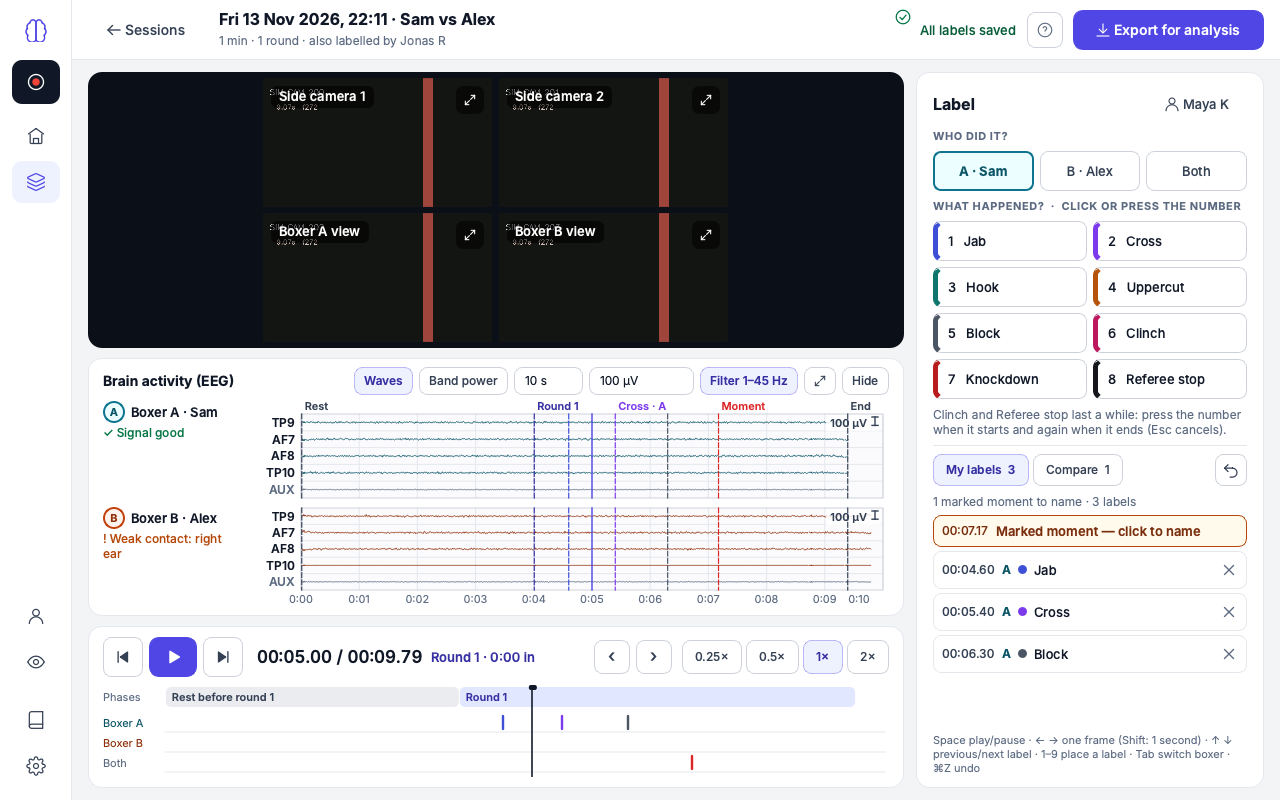
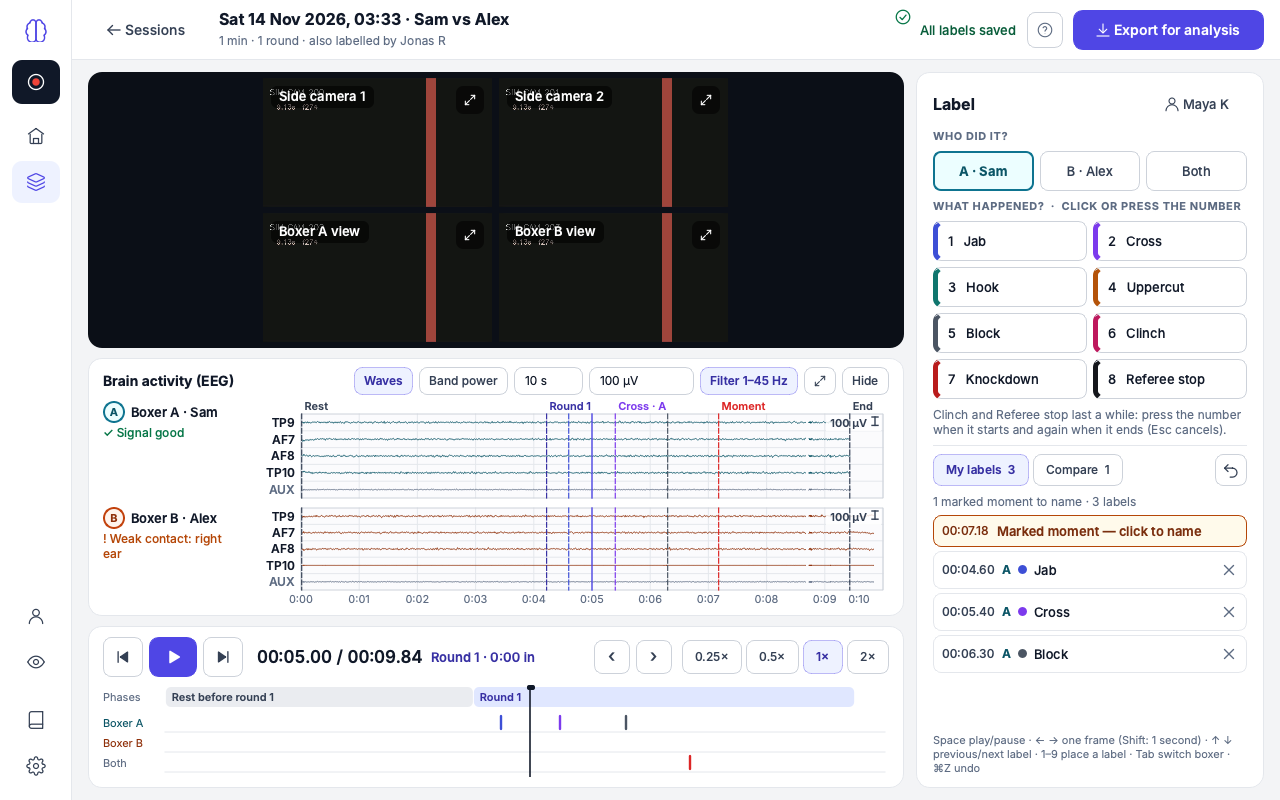
Get ready: compact plan card and one-line header; Review: videos keep more height
At the minimum window the plan card squeezed the headband cards; the disk line
and the save location now share one row and the title shares a row with the
device count. In Review & Label the EEG card yields more height to the videos.
Screenshots refreshed.

Claude-Session: https://claude.ai/code/session_01ERFq9xMTLe1Ze4KAvz9QwG

diff --git a/brain_battle/ui/record_flow.py b/brain_battle/ui/record_flow.py
@@ -355,7 +355,7 @@ class HeadbandView(QFrame):
         # (the scale bar always says what it currently is).
         self._trace = EEGViewer(channels=EEG_CHANNELS[:4] if compact else EEG_CHANNELS,
                                 live=True, color=dt.boxer_colors(slot.which)[2],
-                                min_row_px=11 if compact else 12)
+                                min_row_px=11 if compact else 8)
         self._trace.set_timebase(5 if compact else 10)
         self._trace.set_scale(None)
         v.addWidget(self._trace, 1)
@@ -584,17 +584,14 @@ class ConnectStep(QWidget):
         self.flow = flow
         root = QVBoxLayout(self); root.setContentsMargins(0, 0, 0, 0); root.setSpacing(10)
 
-        top = QHBoxLayout(); top.setSpacing(12)
-        tv = QVBoxLayout(); tv.setSpacing(2)
-        tv.addWidget(ui.title("Get ready"))
-        # (two labels kept for clarity: the count, then what it means)
-        line = QHBoxLayout(); line.setSpacing(8)
+        # one row: the title, then the count and what it means, then Search again
+        top = QHBoxLayout(); top.setSpacing(14)
+        top.addWidget(ui.title("Get ready"))
         self._summary = QLabel("")
         self._explain = ui.muted("", size=dt.SIZE_MD, wrap=False)
         self._explain.setSizePolicy(QSizePolicy.Policy.Ignored, QSizePolicy.Policy.Preferred)
-        line.addWidget(self._summary); line.addWidget(self._explain, 1)
-        tv.addLayout(line)
-        top.addLayout(tv, 1)
+        top.addWidget(self._summary, 0, Qt.AlignmentFlag.AlignBottom)
+        top.addWidget(self._explain, 1, Qt.AlignmentFlag.AlignBottom)
         again = ui.secondary_button("Search again", icon="search",
                                     tip="Look for the cameras and headbands again")
         again.clicked.connect(flow.search_again)
@@ -659,9 +656,9 @@ class SetupStep(ui.Card):
         super().__init__(parent=parent)
         self.flow = flow
         self._net_cache = {}
-        root = QVBoxLayout(self); root.setContentsMargins(18, 14, 18, 14); root.setSpacing(12)
+        root = QVBoxLayout(self); root.setContentsMargins(18, 12, 18, 12); root.setSpacing(10)
 
-        # Row 1: who is boxing, the bell, where it will be saved
+        # Row 1: who is boxing, the bell
         r1 = QHBoxLayout(); r1.setSpacing(10)
         self._name_a = self._name_field("A"); self._name_b = self._name_field("B")
         r1.addWidget(ui.boxer_badge("A", 26)); r1.addWidget(self._name_a, 2)
@@ -673,9 +670,7 @@ class SetupStep(ui.Card):
         r1.addWidget(self._bell)
         r1.addStretch(1)
         root.addLayout(r1)
-        self._hb_note = ui.muted("", size=dt.SIZE_XS, wrap=False)
-        self._hb_note.setSizePolicy(QSizePolicy.Policy.Ignored, QSizePolicy.Policy.Preferred)
-        root.addWidget(self._hb_note)
+        self._hb_note = QLabel("")        # which headband each boxer wears (a tooltip)
 
         # Row 2: the plan (four steppers) · what will happen · Start
         r2 = QHBoxLayout(); r2.setSpacing(16)
@@ -690,24 +685,29 @@ class SetupStep(ui.Card):
         self._bar = PhaseBar(labelled=True, height=24)
         plan.addWidget(self._bar)
         self._autostop = ui.body("", size=dt.SIZE_XS, color=dt.text_secondary())
+        self._autostop.setSizePolicy(QSizePolicy.Policy.Ignored, QSizePolicy.Policy.Preferred)
         plan.addWidget(self._autostop)
-        self._disk = ui.StatusLine("", "idle", size=dt.SIZE_XS)
-        plan.addWidget(self._disk)
-        self._saves_to = ui.muted("", size=dt.SIZE_CAPTION)
-        plan.addWidget(self._saves_to)
-        for lab in (self._autostop, self._saves_to):
-            lab.setSizePolicy(QSizePolicy.Policy.Ignored, QSizePolicy.Policy.Preferred)
-        self._disk.setSizePolicy(QSizePolicy.Policy.Ignored, QSizePolicy.Policy.Preferred)
         pw = QWidget(); pw.setLayout(plan); pw.setMinimumWidth(200)
-        r2.addWidget(pw, 1)
+        r2.addWidget(pw, 1, Qt.AlignmentFlag.AlignBottom)
         self._start = ui.danger_button("Start recording", icon="circle")
         self._start.setMinimumHeight(56); self._start.setMinimumWidth(190)
         self._start.setStyleSheet(dt.qss_danger_button() +
                                   f" QPushButton {{ font-size: {dt.SIZE_LG}px; font-weight: 700; }}")
         self._start.setToolTip("Recording starts with the rest period.")
         self._start.clicked.connect(flow.begin_recording)
-        r2.addWidget(self._start, 0, Qt.AlignmentFlag.AlignVCenter)
+        r2.addWidget(self._start, 0, Qt.AlignmentFlag.AlignBottom)
         root.addLayout(r2)
+
+        # Row 3: is there room for it, and where it will be saved
+        r3 = QHBoxLayout(); r3.setSpacing(16)
+        self._disk = ui.StatusLine("", "idle", size=dt.SIZE_XS)
+        self._disk.setSizePolicy(QSizePolicy.Policy.Ignored, QSizePolicy.Policy.Preferred)
+        r3.addWidget(self._disk, 3)
+        self._saves_to = ui.muted("", size=dt.SIZE_CAPTION)
+        self._saves_to.setSizePolicy(QSizePolicy.Policy.Ignored, QSizePolicy.Policy.Preferred)
+        self._saves_to.setAlignment(Qt.AlignmentFlag.AlignRight | Qt.AlignmentFlag.AlignTop)
+        r3.addWidget(self._saves_to, 2)
+        root.addLayout(r3)
         self._name_a.textChanged.connect(self._on_names_changed)
         self._name_b.textChanged.connect(self._on_names_changed)
 
@@ -737,8 +737,11 @@ class SetupStep(ui.Card):
             edit.blockSignals(False)
         hb_a = s.headband_for("A") or "a headband"
         hb_b = s.headband_for("B") or "a headband"
-        self._hb_note.setText(f"Boxer A wears headband {hb_a} · Boxer B wears {hb_b}. "
-                              f"Names are optional and can be hidden later.")
+        self._hb_note.setText(f"Boxer A wears headband {hb_a} · Boxer B wears {hb_b}.")
+        self._name_a.setToolTip(f"Boxer A wears headband {hb_a}. The name is optional and "
+                                f"can be hidden later.")
+        self._name_b.setToolTip(f"Boxer B wears headband {hb_b}. The name is optional and "
+                                f"can be hidden later.")
         self._recompute()
 
     def config(self) -> SessionConfig:

diff --git a/brain_battle/ui/review_label_screen.py b/brain_battle/ui/review_label_screen.py
@@ -377,7 +377,7 @@ class BrainActivityCard(QFrame):
         """Share the space above the timeline with the videos: on a small
         window the normal height gives way (down to HEIGHT_MIN) so the videos —
         what a labeller watches — keep the larger part."""
-        h = max(self.HEIGHT_MIN, min(self.HEIGHT_NORMAL, int(available * 0.46)))
+        h = max(self.HEIGHT_MIN, min(self.HEIGHT_NORMAL, int(available * 0.40)))
         if h != self._normal_height:
             self._normal_height = h
             if not self._fold.isChecked() and not self._tall.isChecked():
